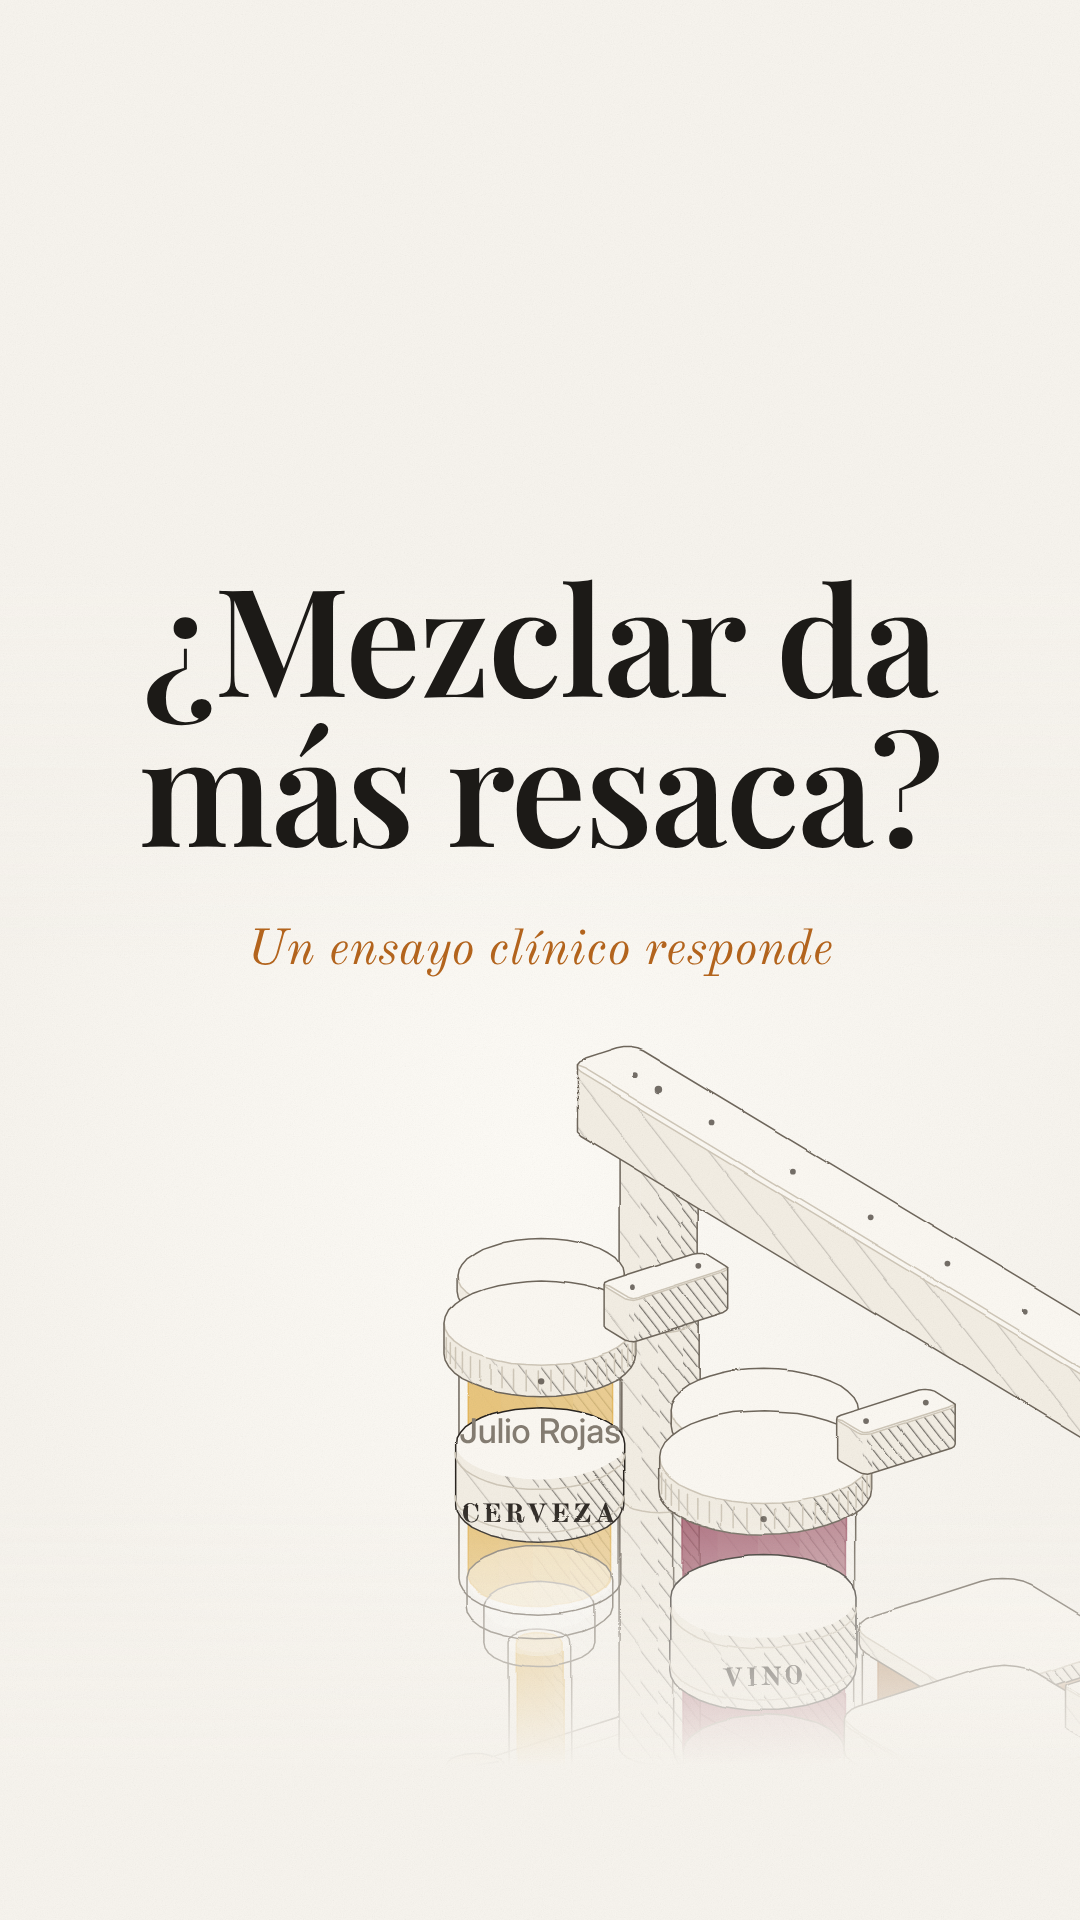
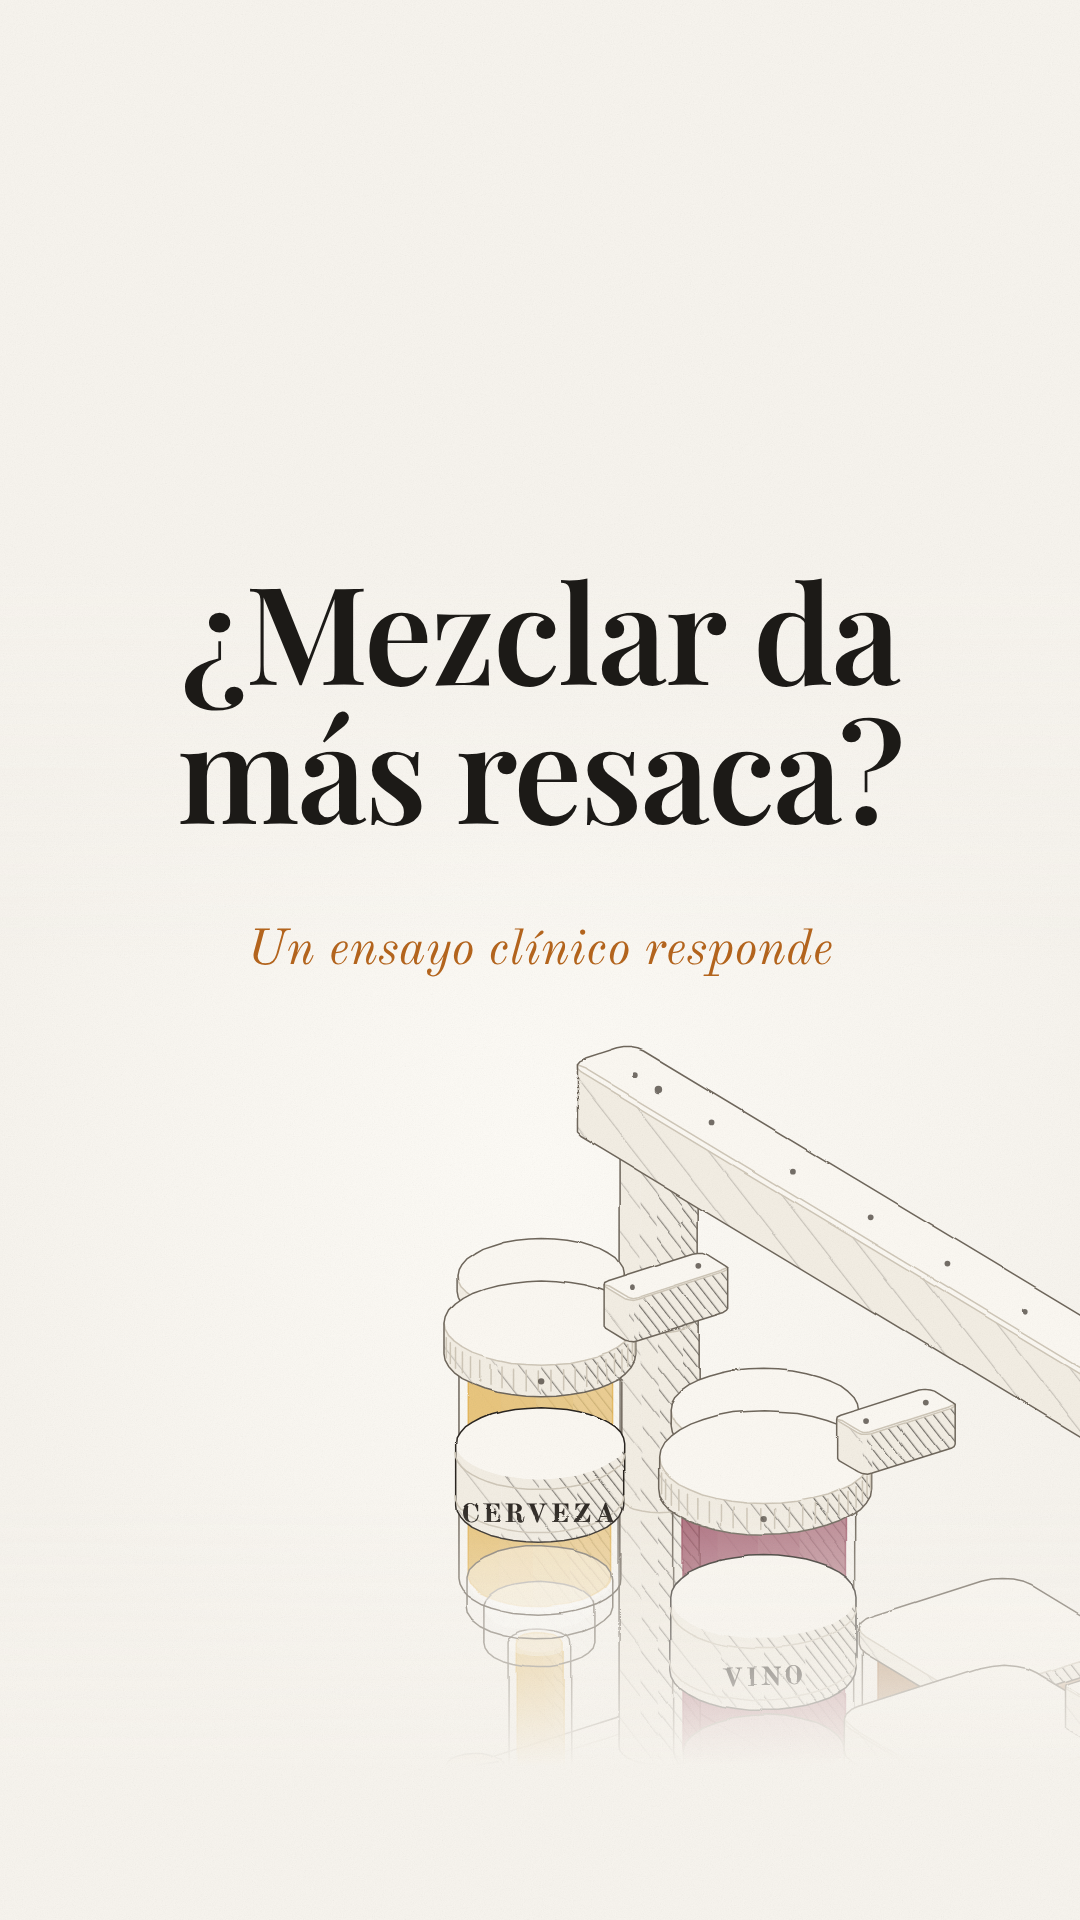
Portadas: título en dos líneas, sin firma sobre la botella
Claude-Session: https://claude.ai/code/session_01ENLN6Db4ZBW6g2GepPBpiq

Changed region(s): [[0.1222, 0.2812, 0.8861, 0.4688], [0.4278, 0.7188, 0.5806, 0.75]]

diff --git a/src/reel/Cover.tsx b/src/reel/Cover.tsx
@@ -6,7 +6,7 @@ import { Bench } from "./bench/Bench";
 import { framingOf, type Camera } from "./bench/camera";
 import { programOf, stateAt } from "./bench/model";
 import { FontFaces, Grain } from "./Reel";
-import { DISPLAY, K, OLD, SERIF } from "./kit";
+import { K, OLD, SERIF } from "./kit";
 import { REEL_H, REEL_W, Variant } from "./script";
 
 // Cover frame for the grid and the TikTok/Reels thumbnail: the beer pouring
@@ -18,7 +18,7 @@ export const Cover: React.FC<{ variant: Variant; title?: string; kicker?: string
   const state = stateAt(program, 24);
   const cam: Camera = { azimuth: 36, elevation: 26, focus: [-108, -30, 150], zoom: 3.2, anchor: 0.78, shot: program.shots[0], settled: 1 };
   const framing = framingOf(cam);
-  const words = title ?? (variant === "linkedin" ? "90 personas.\nLa misma resaca." : "¿Mezclar da\nmás resaca?");
+  const words = title ?? (variant === "linkedin" ? "90 personas.\nMisma resaca." : "¿Mezclar da\nmás resaca?");
   const small = kicker ?? (variant === "linkedin" ? "Cerveza y vino, en los dos órdenes" : "Un ensayo clínico responde");
   return (
     <AbsoluteFill className="iso" data-theme="light" style={{ background: K.paper }}>
@@ -28,9 +28,8 @@ export const Cover: React.FC<{ variant: Variant; title?: string; kicker?: string
         <Bench state={state} P={framing.P} viewBox={framing.viewBox} width={REEL_W} height={REEL_H} />
       </AbsoluteFill>
       <AbsoluteFill style={{ background: `linear-gradient(to bottom, ${K.paper} 0%, ${K.paper} 30%, rgba(247,244,238,0) 50%, rgba(247,244,238,0) 78%, ${K.paper} 92%)` }} />
-      <div style={{ position: "absolute", left: 90, right: 90, top: 560, textAlign: "center", fontFamily: SERIF, fontWeight: 600, fontSize: 150, lineHeight: 1.0, letterSpacing: "-2px", color: K.ink, whiteSpace: "pre-line" }}>{words}</div>
+      <div style={{ position: "absolute", left: 90, right: 90, top: 560, textAlign: "center", fontFamily: SERIF, fontWeight: 600, fontSize: 136, lineHeight: 1.02, letterSpacing: "-2px", color: K.ink, whiteSpace: "pre-line" }}>{words}</div>
       <div style={{ position: "absolute", left: 120, right: 120, top: 920, textAlign: "center", fontFamily: OLD, fontStyle: "italic", fontSize: 50, color: K.accent }}>{small}</div>
-      <div style={{ position: "absolute", left: 0, right: 0, top: 1410, textAlign: "center", fontFamily: DISPLAY, fontWeight: 500, fontSize: 34, color: K.grey }}>Julio Rojas</div>
       <Grain />
     </AbsoluteFill>
   );
